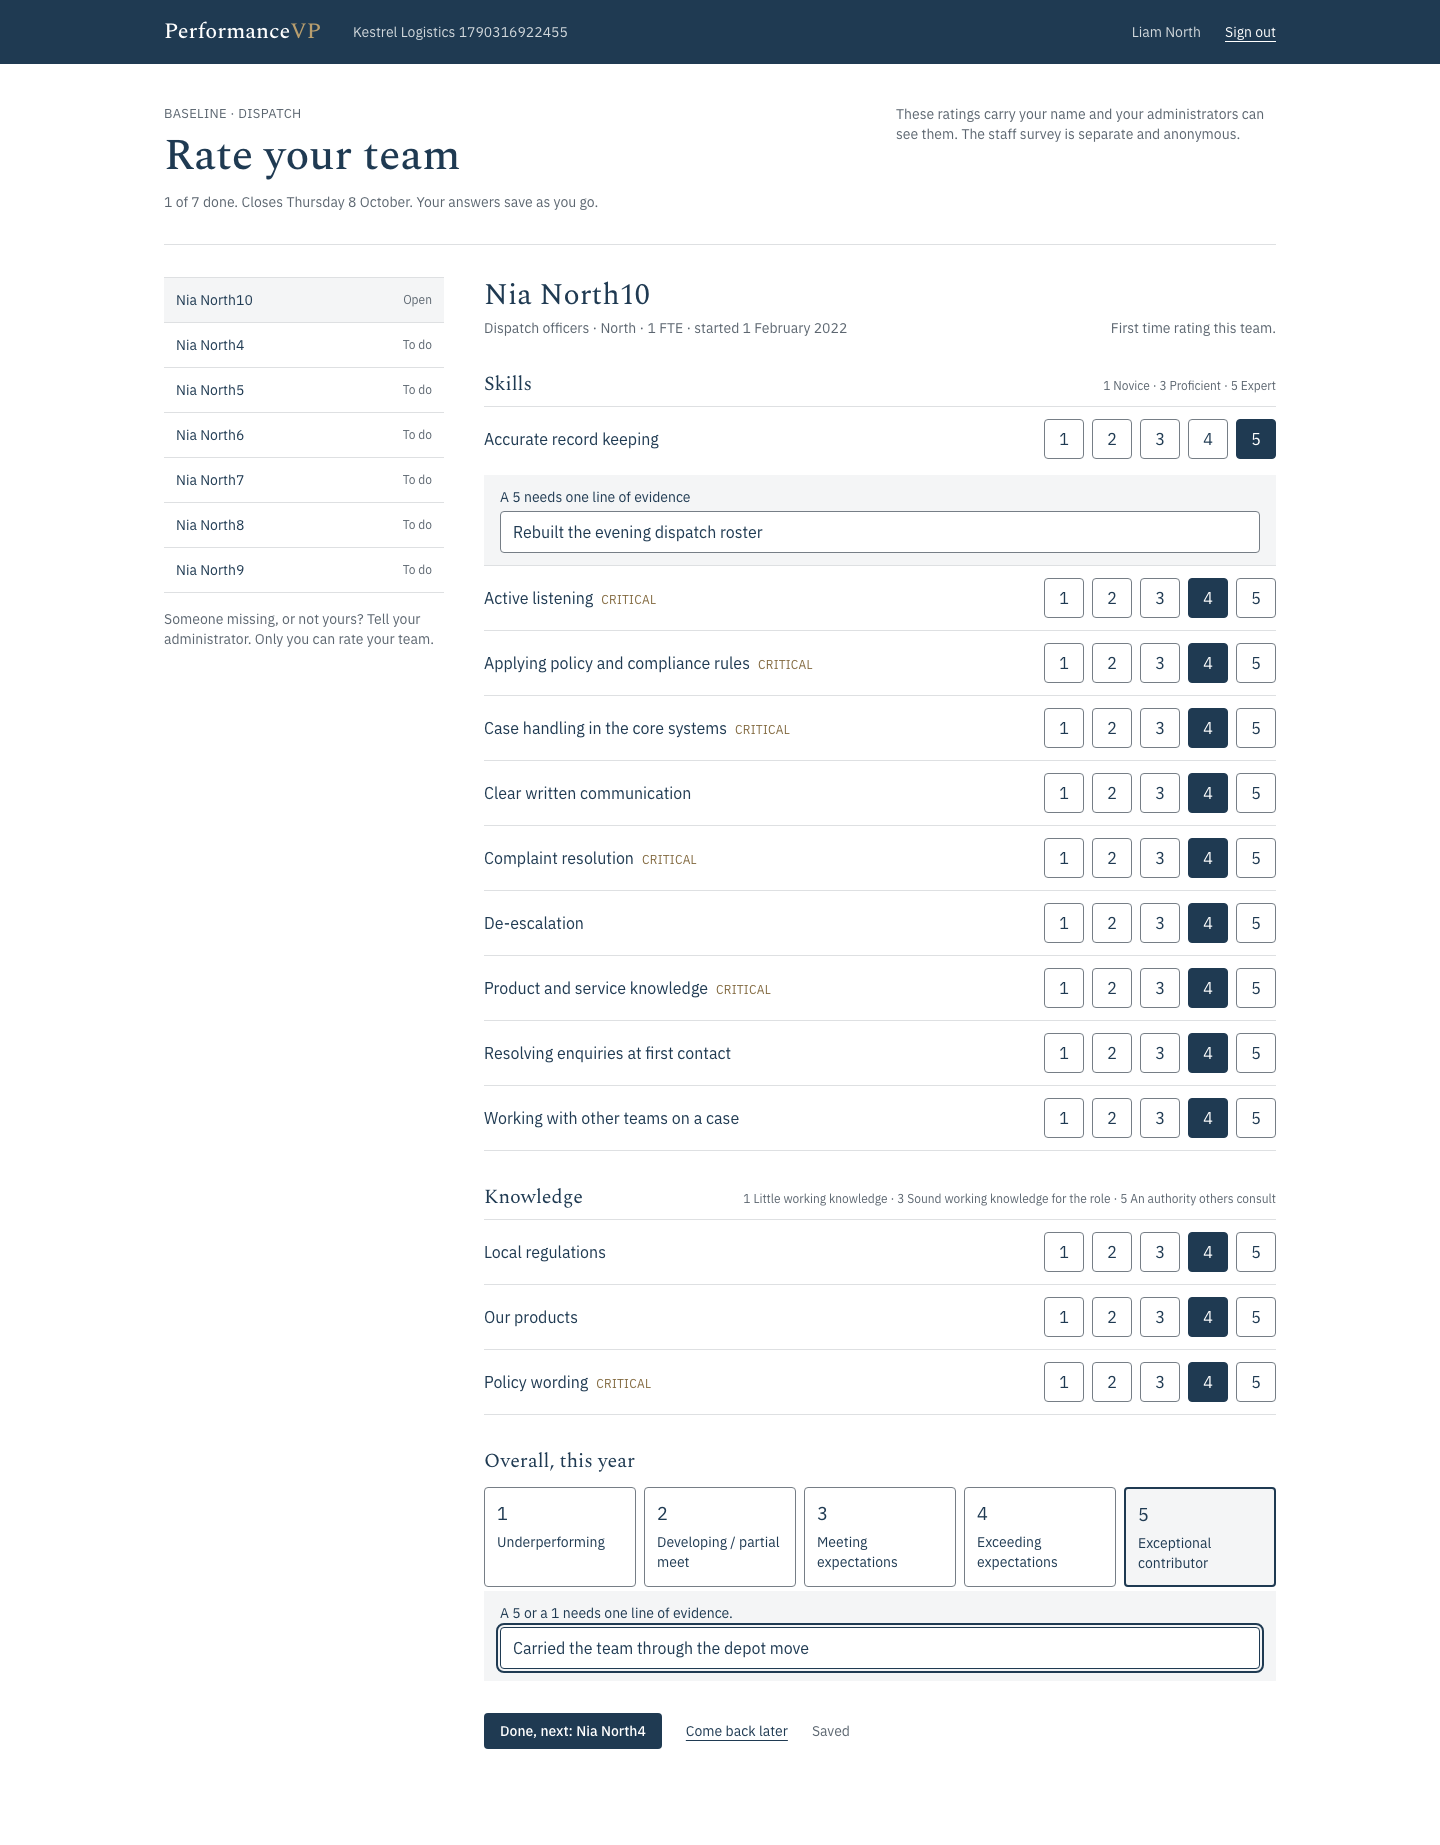
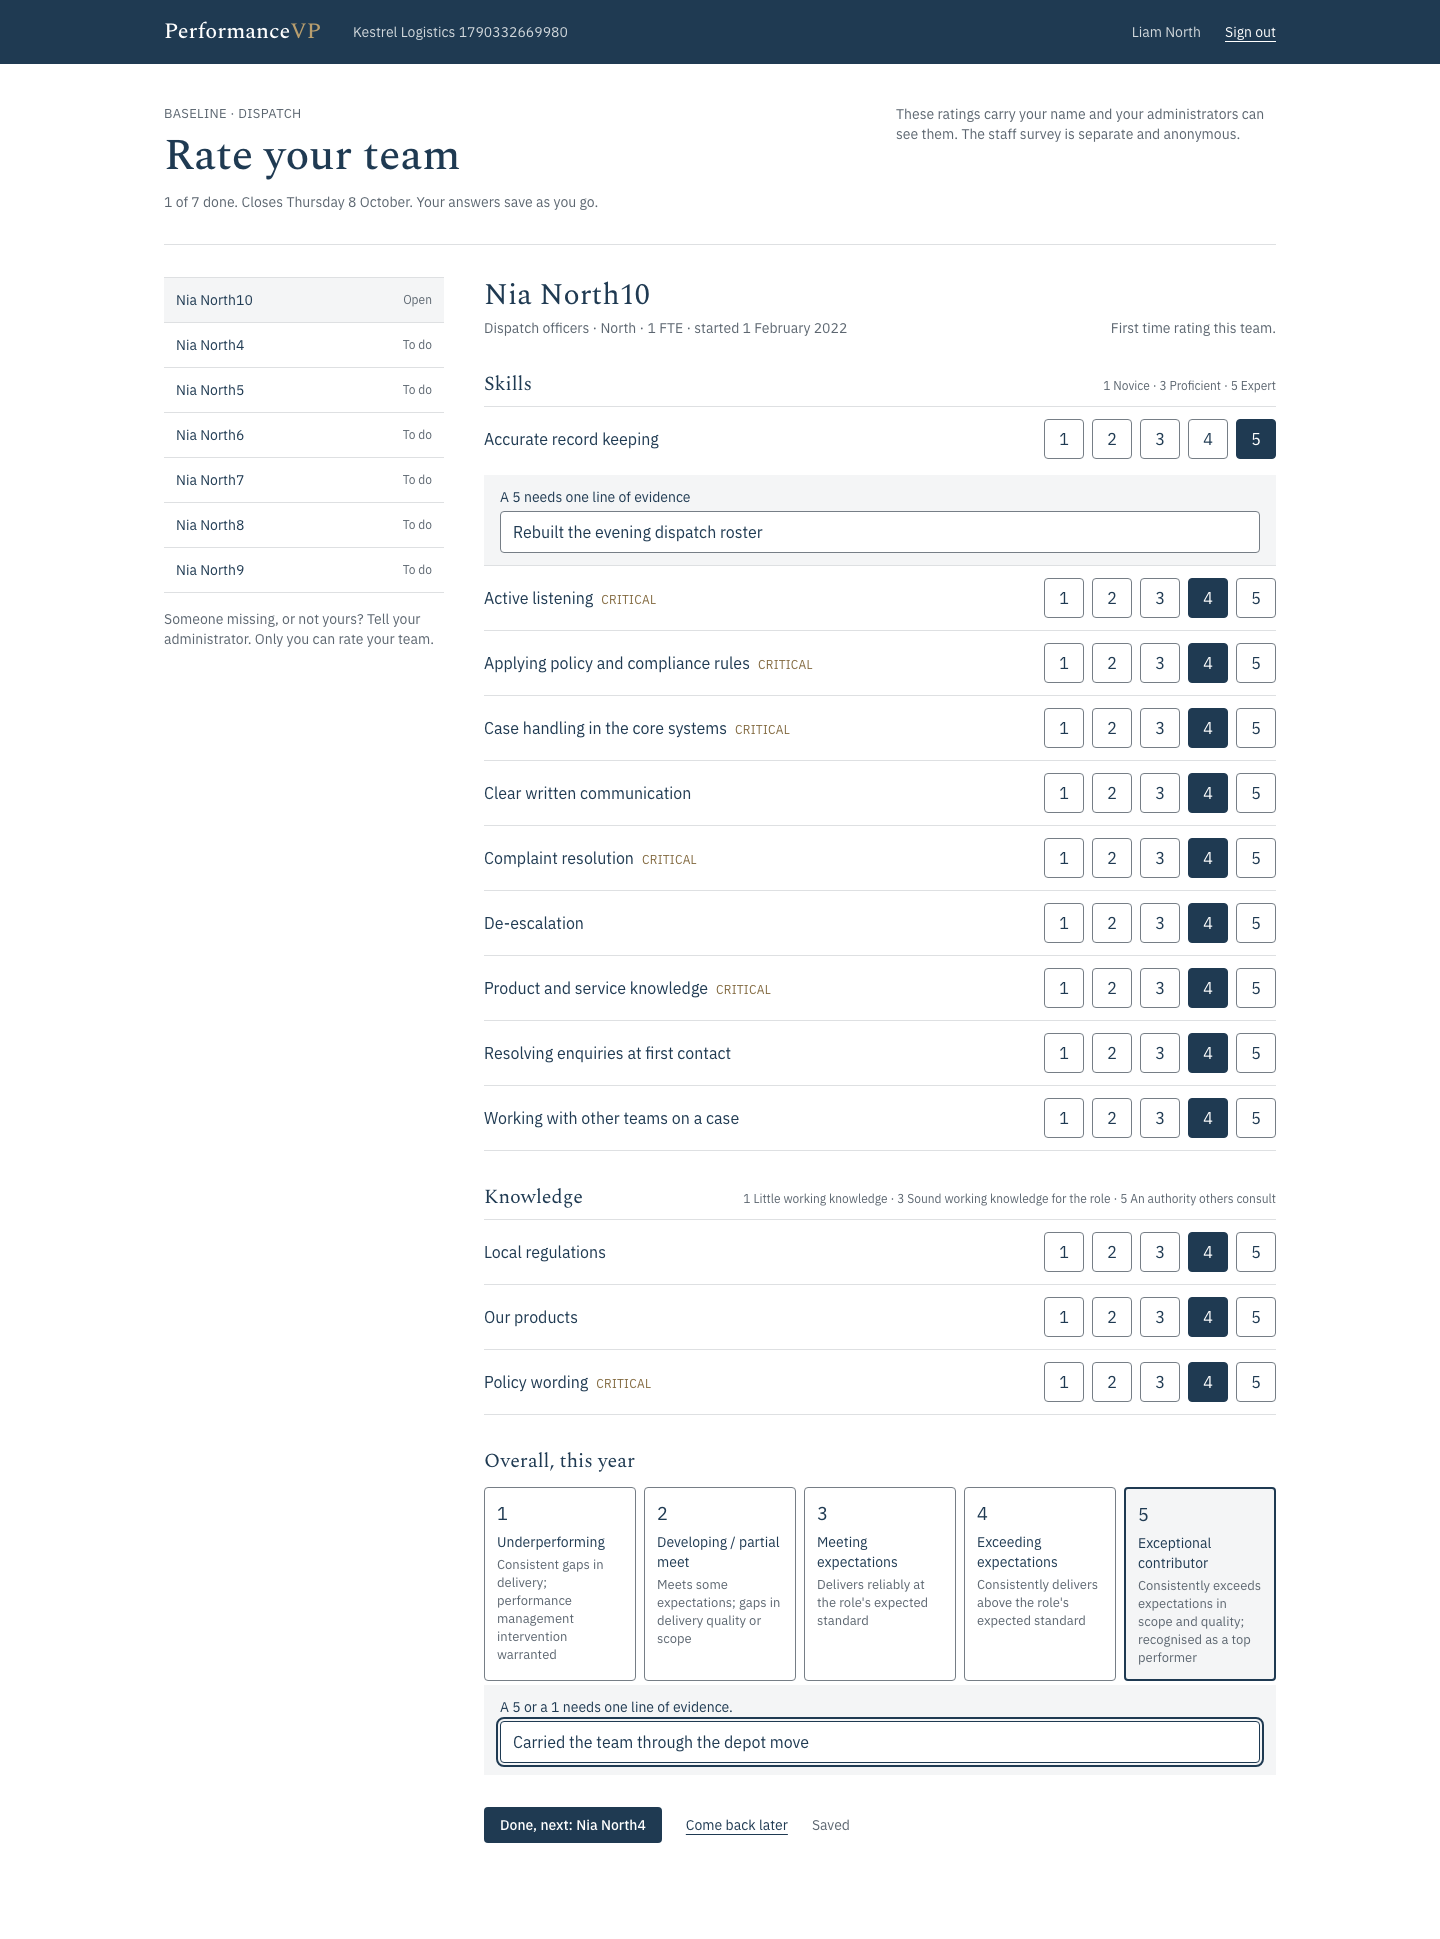
Milestone 5: band descriptors on the manager form
Each of the five band cards shows Module Library 4.2's one-line descriptor under its label, grey
at 13 px, verbatim from the reference table as the labels are (S8). Screenshots 05 to 07 retaken.

diff --git a/apps/portal/app/(rating)/org/[orgId]/rate/[campaignId]/rating-form.tsx b/apps/portal/app/(rating)/org/[orgId]/rate/[campaignId]/rating-form.tsx
@@ -31,7 +31,8 @@ import { type RatingsToSave, saveRatings } from "./actions";
 export interface Anchors {
   skill: Array<{ value: number; label: string }>;
   knowledge: Array<{ value: number; label: string }>;
-  band: Array<{ value: number; label: string }>;
+  /** The bands, each with Module Library 4.2's one-line descriptor. */
+  band: Array<{ value: number; label: string; description: string | null }>;
 }
 
 interface Value {
@@ -471,6 +472,9 @@ export function RatingFormView({
                       />
                       <span className="font-mono text-lg">{a.value}</span>
                       <span>{a.label}</span>
+                      {a.description ? (
+                        <span className="text-[13px] leading-snug text-grey">{a.description}</span>
+                      ) : null}
                     </label>
                   ))}
                 </div>

diff --git a/apps/portal/app/(rating)/org/[orgId]/rate/[campaignId]/page.tsx b/apps/portal/app/(rating)/org/[orgId]/rate/[campaignId]/page.tsx
@@ -14,10 +14,11 @@ import { createClient } from "@/lib/supabase/server";
 
 import { type Anchors, RatingFormView } from "./rating-form";
 
-function anchorsOf(code: string): Anchors["skill"] {
+function anchorsOf(code: string): Anchors["band"] {
   return (REFERENCE.module_items.find((i) => i.code === code)?.anchors ?? []).map((a) => ({
     value: a.value,
     label: a.label,
+    description: a.description,
   }));
 }
 
